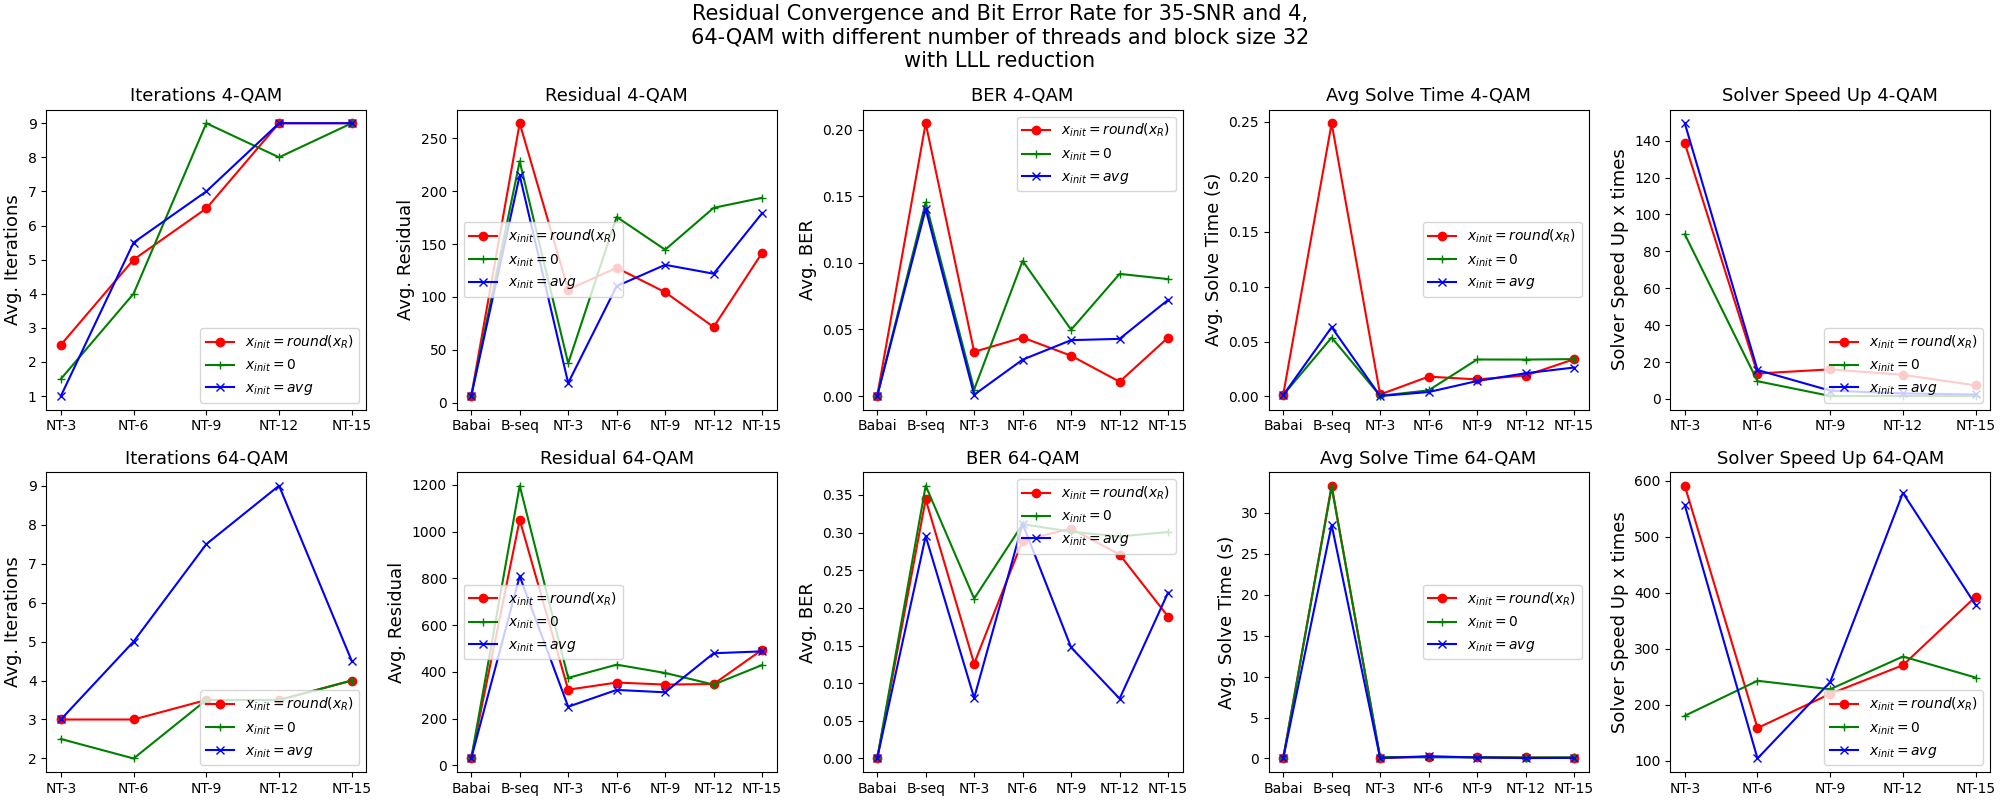
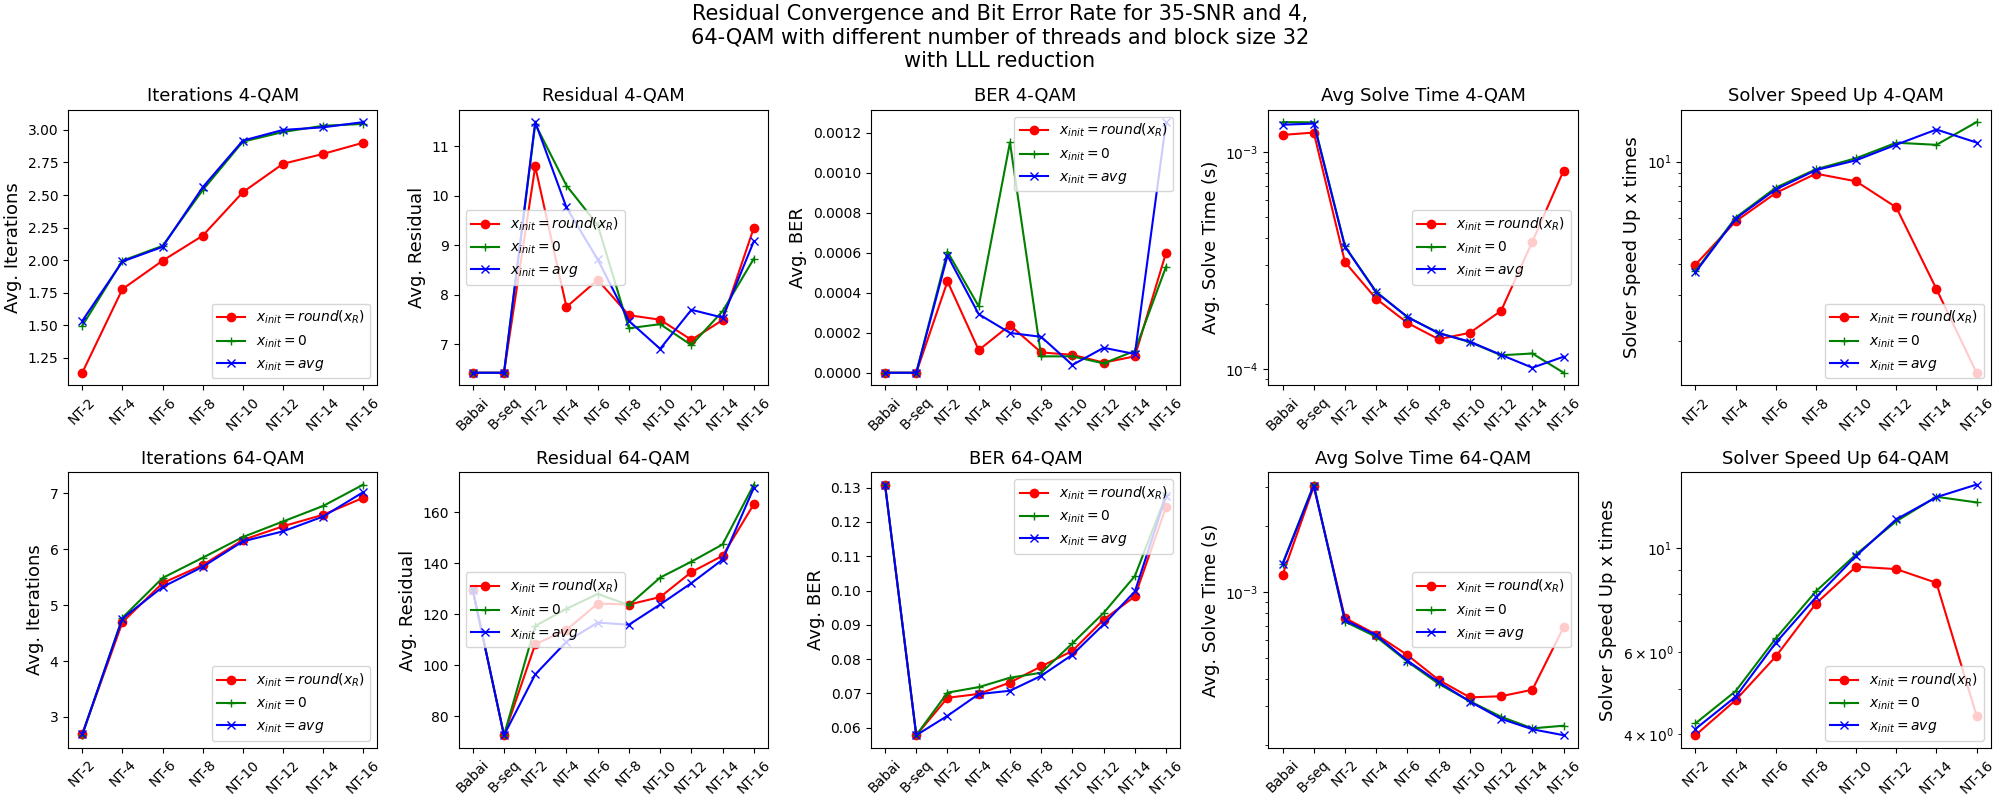
workable version 3

diff --git a/babai_asyn_c++/src/example/cils_gen_test.cpp b/babai_asyn_c++/src/example/cils_gen_test.cpp
@@ -105,12 +105,13 @@ long plot_run() {
                     }
                     cout << endl;
                     l = 2;
-                    for (index n_proc = min_proc; n_proc <= max_proc + 2 * min_proc; n_proc += min_proc) {
+                    for (index n_proc = min_proc; n_proc <= max_proc ; n_proc += min_proc) {//+ 2 * min_proc
                         init_guess<scalar, index, n>(init, &z_B, &cils.x_R);
-                        reT = cils.cils_block_search_omp(n_proc > max_proc ? max_proc : n_proc,
-                                                         num_trials, init, &d_s, &z_B);
-                        reT = cils.cils_block_search_omp(n_proc > max_proc ? max_proc : n_proc,
-                                                         num_trials, init, &d_s, &z_B);
+                        cils.cils_block_search_omp(n_proc, num_trials, init, &d_s, &z_B);
+
+                        init_guess<scalar, index, n>(init, &z_B, &cils.x_R);
+                        reT = cils.cils_block_search_omp(n_proc, num_trials, init, &d_s, &z_B);
+
                         res[init + 1][l][count] += cils::find_residual<scalar, index, n>(cils.A, cils.y_L, &z_B);
                         ber[init + 1][l][count] += cils::find_bit_error_rate<scalar, index, n>(&z_B, &cils.x_t, k);
                         tim[init + 1][l][count] += reT.run_time;
@@ -145,10 +146,10 @@ long plot_run() {
                        block_size, res[init + 1][1][count], ber[init + 1][1][count], tim[init + 1][1][count],
                        ser_qrd / max_iter, (ser_qrd + tim[init + 1][1][count]));
                 l = 2;
-                for (index n_proc = min_proc; n_proc <= max_proc + 2 * min_proc; n_proc += min_proc) {
+                for (index n_proc = min_proc; n_proc <= max_proc ; n_proc += min_proc) {
                     printf("Method: ILS_OMP, n_proc: %d, Res :%.5f, BER: %.5f, num_iter: %.5f, Time: %.5fs, Avg Time: %.5fs, "
                            "Speed up: %.3f, QR Error: %.3f, QR Time: %.5fs, QR SpeedUp: %.3f, Total Time: %.5fs, Total SpeedUp: %.3f\n",
-                           n_proc > max_proc ? max_proc : n_proc, res[init + 1][l][count],
+                           n_proc, res[init + 1][l][count],
                            ber[init + 1][l][count], itr[init + 1][l][count],
                            tim[init + 1][l][count], tim[init + 1][l][count],
                            tim[init + 1][1][count] / tim[init + 1][l][count],
@@ -181,8 +182,8 @@ long plot_run() {
         }
         scalar proc_nums[l - 2] = {};
         index ll = 0;
-        for (index n_proc = min_proc; n_proc <= max_proc + 2 * min_proc; n_proc += min_proc) {
-            proc_nums[ll] = n_proc > max_proc ? max_proc : n_proc;
+        for (index n_proc = min_proc; n_proc <= max_proc ; n_proc += min_proc) {
+            proc_nums[ll] = n_proc;
             ll++;
         }
         npy_intp dpc[1] = {ll};

diff --git a/babai_asyn_c++/src/example/plot_helper.py b/babai_asyn_c++/src/example/plot_helper.py
@@ -54,9 +54,9 @@ def plot_runtime(n, SNR, k, l_max, block_size, max_iter, is_qr, res, ber, tim, i
             proc_num = proc_num.astype(int)
             labels = ['$x_{init} = round(x_R)$', '$x_{init} = 0$', '$x_{init} = avg$']
             itr_label = ['NT-' + str(proc) for proc in proc_num]
-            itr_label[len(itr_label) - 1] = itr_label[len(itr_label) - 1] + '-3'
-            itr_label[len(itr_label) - 2] = itr_label[len(itr_label) - 2] + '-2'
-            itr_label[len(itr_label) - 3] = itr_label[len(itr_label) - 3] + '-1'
+            # itr_label[len(itr_label) - 1] = itr_label[len(itr_label) - 1] + '-3'
+            # itr_label[len(itr_label) - 2] = itr_label[len(itr_label) - 2] + '-2'
+            # itr_label[len(itr_label) - 3] = itr_label[len(itr_label) - 3] + '-1'
             print(itr_label)
             res_label = ['Babai', 'B-seq'] + itr_label
             print(res_label)
@@ -65,8 +65,8 @@ def plot_runtime(n, SNR, k, l_max, block_size, max_iter, is_qr, res, ber, tim, i
             axes2[j, 0].plot(itr_label, omp_itr[0:len(itr_label)], color=color[x], marker=marker[x], label=labels[x])
             axes2[j, 1].plot(res_label, omp_res[0:len(res_label)], color=color[x], marker=marker[x], label=labels[x])
             axes2[j, 2].plot(res_label, omp_ber[0:len(res_label)], color=color[x], marker=marker[x], label=labels[x])
-            axes2[j, 3].plot(res_label, omp_stm[0:len(res_label)], color=color[x], marker=marker[x], label=labels[x])
-            axes2[j, 4].plot(spu_label, omp_spu[2:len(spu_label) + 2], color=color[x], marker=marker[x], label=labels[x])
+            axes2[j, 3].semilogy(res_label, omp_stm[0:len(res_label)], color=color[x], marker=marker[x], label=labels[x])
+            axes2[j, 4].semilogy(spu_label, omp_spu[2:len(spu_label) + 2], color=color[x], marker=marker[x], label=labels[x])
             axes2[j, 0].set_xticklabels(itr_label, rotation=45)
             axes2[j, 1].set_xticklabels(res_label, rotation=45)
             axes2[j, 2].set_xticklabels(res_label, rotation=45)

diff --git a/babai_asyn_c++/src/include/config.h b/babai_asyn_c++/src/include/config.h
@@ -24,7 +24,7 @@ namespace cils {
          */
         index k = 3;
         index SNR = 35;
-        index max_iter = 10;
+        index max_iter = 500;
         index search_iter = 100;
         index stop = 2;
         index schedule = 2;
@@ -38,11 +38,11 @@ namespace cils {
         index mode = 1; //test mode 3: c++ gen
         index num_trials = 10; //nswp
         index is_local = 1;
-        index max_search = 20000;//INT_MAX;
+        index max_search = 10000;//INT_MAX;
         index min_proc = 2;
 
         index max_proc = min(omp_get_max_threads(), N / block_size);
-        index max_thre = 20000;//maximum search allowed for serial ils.
+        index max_thre = 10000;//maximum search allowed for serial ils.
 
         string suffix = "" + to_string(N);
         string prefix = is_local ? "../../" : "";
